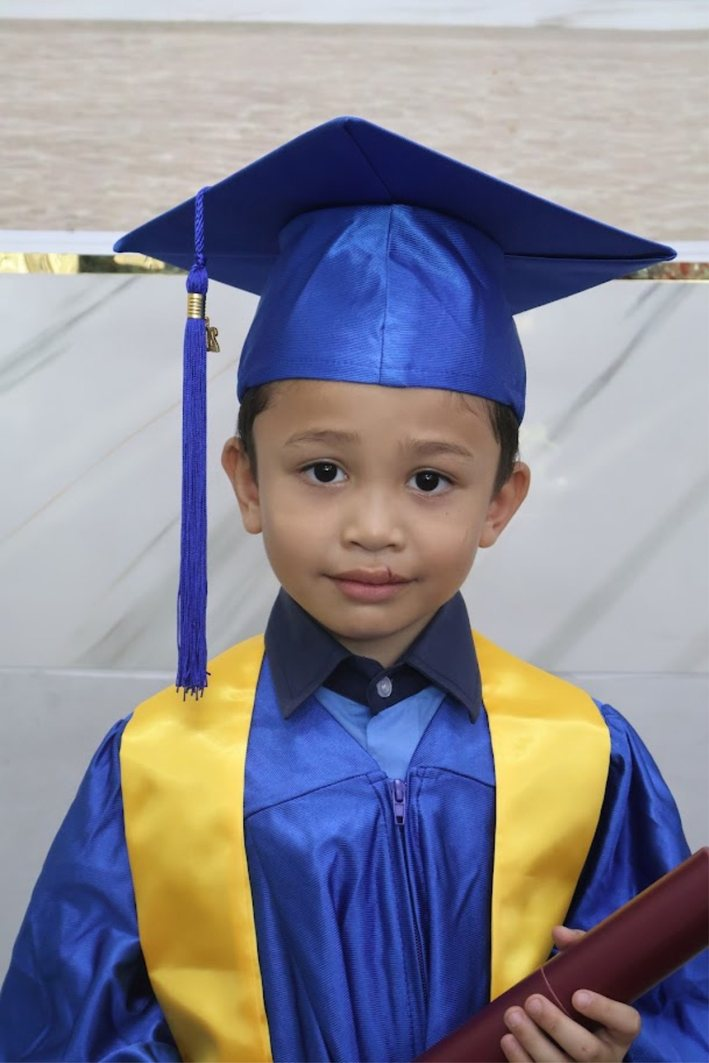
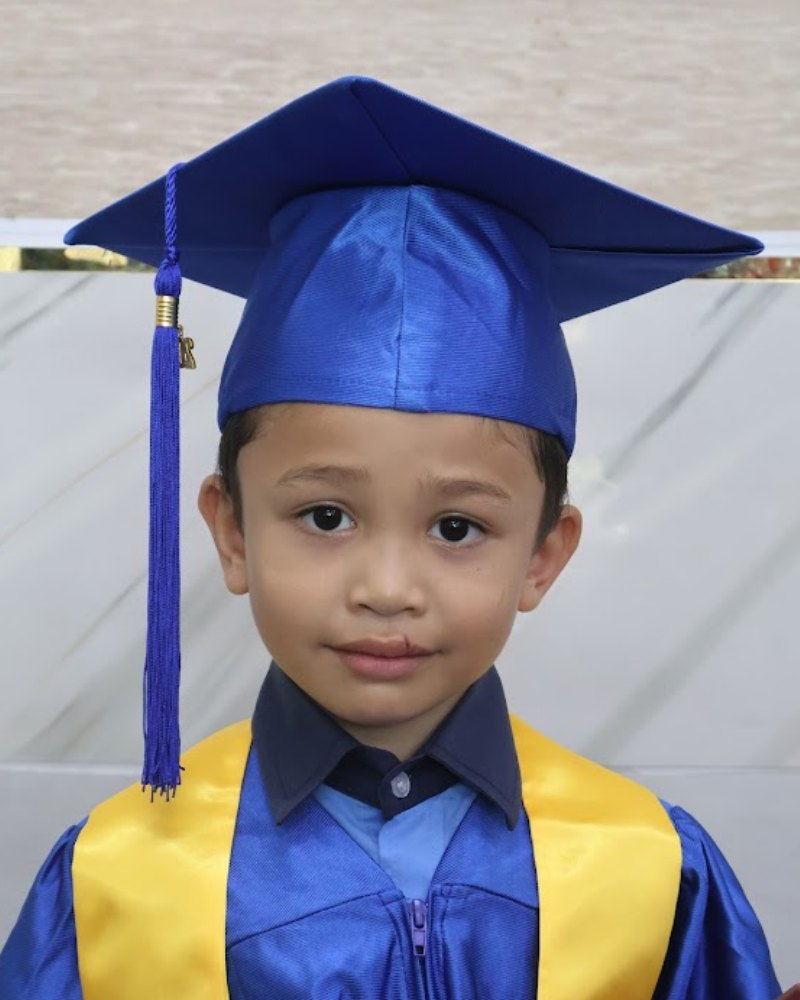
Guna gambar saiz global 800x1000 untuk Kaysha, Ahnaf, Syed Umar, Ayra dan Mia
Gambar disediakan oleh pihak sekolah mengikut templat 4:5, jadi dipaparkan
seperti asal tanpa crop automatik (entri PHOTO_FOCUS dibuang). Syed Umar guna
satu gambar untuk Anugerah Kreatif dan Sahsiah.

Claude-Session: https://claude.ai/code/session_01Md8ibLZ7n58NjEkXgLpHGH

diff --git a/index.html b/index.html
@@ -777,14 +777,14 @@ var SAHSIAH=[
  ['NUR ZAHRA DELISYA BINTI NOR AZLI','nurzahra']
 ];
 
-/* Titik fokus crop setiap gambar (pecahan lebar/tinggi fail asal).
+/* Gambar yang disediakan pada saiz global 800 x 1000 px (4:5) TIDAK perlu entri di sini:
+   ia dipaparkan seperti asal (object-fit: cover). Entri di bawah hanya untuk gambar lama
+   dari buku program yang belum diganti.
+   Titik fokus crop setiap gambar (pecahan lebar/tinggi fail asal).
    x,y = penjuru kiri atas kawasan crop; w,h = saiz kawasan crop (nisbah 4:5, bahu ke atas).
    Laraskan nilai di sini jika crop perlu dibetulkan — fail gambar asal tidak diubah. */
-var PHOTO_FOCUS={
- ahnaf:{x:0.1077,y:0.1133,w:0.7909,h:0.6824}, aisyah:{x:.1743,y:0,w:.6582,h:.7048}, ayra:{x:.1561,y:0,w:.6449,h:.7043},
- izznayla:{x:0,y:0,w:1,h:.7823}, izzzara:{x:.1105,y:0,w:.8895,h:.6959}, kaysha:{x:0.1313,y:0.1504,w:0.6925,h:0.654},
- mia:{x:.1339,y:0,w:.7842,h:.8392}, nurulaatra:{x:.1709,y:0,w:.6833,h:.7108}, nurzahra:{x:.2021,y:0,w:.6335,h:.6839},
- syedumar:{x:0.0768,y:0.1327,w:0.9023,h:0.7523}, syedumar2:{x:0.0768,y:0.1327,w:0.9023,h:0.7523}
+var PHOTO_FOCUS={ aisyah:{x:.1743,y:0,w:.6582,h:.7048},
+ izznayla:{x:0,y:0,w:1,h:.7823}, izzzara:{x:.1105,y:0,w:.8895,h:.6959}, nurulaatra:{x:.1709,y:0,w:.6833,h:.7108}, nurzahra:{x:.2021,y:0,w:.6335,h:.6839}
 };
 
 var POS=['Pertama','Kedua','Ketiga'];
